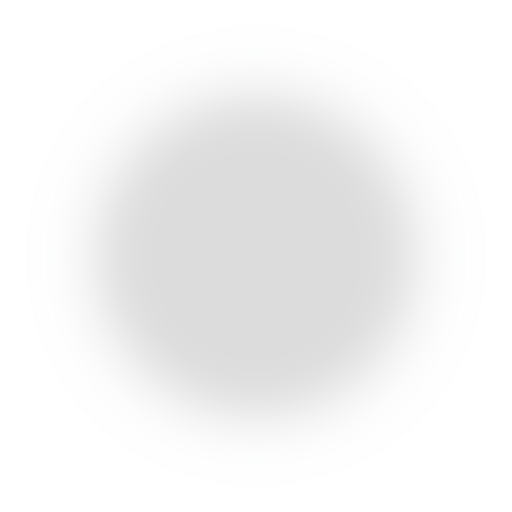
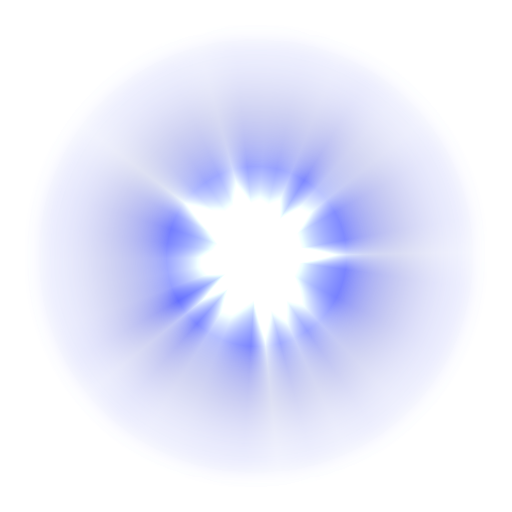
start to points tree, special list rendering

Changed region(s): [[0.1875, 0.2188, 0.8125, 0.8125]]

diff --git a/scripts/ui.js b/scripts/ui.js
@@ -434,16 +434,116 @@ BSWG.control_UnlockTree = {
         this.updateButtons();
 
         this.cats = [ 'attack', 'mele', 'defend', 'speed' ];
+
+        this.scrollY = 0.0;
     },
 
     updateButtons: function () {
 
         this.buttons = [];
+
+        if (!this.hudHM) {
+            return;
+        }
+
+        var self = this;
         this.maxLevelCat = {};
         this.maxLevel = 0;
 
         for (var i=0; i<this.cats.length; i++) {
+            var cat = this.cats[i];
+            var levels = BSWG.specialsUnlockInfo[cat].levels;
+            for (var level in levels) {
+                this.maxLevelCat[cat] = Math.max(this.maxLevelCat[cat] || 0, parseInt(level));
+                this.maxLevel = Math.max(this.maxLevel, parseInt(level));
+            }
+        }
 
+        var hx = function(v) {
+            var t = (v - self.hudHM.l(0)) / (self.hudHM.r(0) - self.hudHM.l(0));
+            return self.w*t + self.p.x;
+        };
+        var hy = function(v) {
+            var t = (v - self.hudHM.t(0)) / (self.hudHM.b(0) - self.hudHM.t(0));
+            return self.h*t + self.p.y;
+        };
+
+        var w = (this.w - (hx(20) - this.p.x)) / this.bRows;
+        self.scrollH = w;
+        var y = hy(10) - (this.maxLevel - this.bRows) * w - w;
+        for (var level=this.maxLevel; level >= 0; level--) {
+            for (var i=0; i<this.cats.length; i++) {
+                var cat = this.cats[i];
+                if (this.maxLevelCat[cat] < level) {
+                    continue;
+                }
+                var levels = BSWG.specialsUnlockInfo[cat].levels;
+                var x = w*i;
+
+                var B = {
+                    x: x + 5 + 9,
+                    y: y - this.p.y + 5,
+                    w: w - 10,
+                    h: w - 10,
+                    cat: cat,
+                    level: level,
+                    has: BSWG.game.xpInfo[cat] >= level,
+                    canHave: (BSWG.game.xpInfo[cat]+Math.min(1, BSWG.game.xpInfo.pointsLeft())) >= level
+                };
+
+                B.render = function(me, key, has) {
+                    return function(ctx) {
+                        var x = me.x + self.p.x;
+                        var y = me.y + self.p.y - self.scrollY;
+                        if (key) {
+                            ctx.globalAlpha = me.canHave ? 1.0 : 0.25;
+                            if (me.canHave && !me.has) {
+                                ctx.globalAlpha = Math.sin(BSWG.render.time*5)*0.35+0.65;
+                            }
+                            ctx.save();
+                            ctx.translate(x+me.w/2, y+me.h/2);
+                            ctx.rotate(BSWG.render.time)
+                            ctx.translate(-me.w/2, -me.h/2)
+                            ctx.drawImage(BSWG.render.images['unlock-hover'], 0, 0, me.w, me.h);
+                            ctx.restore();
+                            ctx.globalAlpha *= 0.5;
+                            ctx.save();
+                            ctx.translate(x+me.w/2, y+me.h/2);
+                            ctx.rotate(-BSWG.render.time)
+                            ctx.translate(-me.w/2, -me.h/2)
+                            ctx.drawImage(BSWG.render.images['unlock-hover'], 0, 0, me.w, me.h);
+                            ctx.restore();
+                            ctx.globalAlpha = 1.0;
+
+                            BSWG.renderSpecialIcon(ctx, key, x + me.w/2, y + me.h/2, me.w, 0.0, BSWG.game.ccblock, true);
+                        }
+                        else
+                        {
+                            ctx.globalAlpha = me.canHave ? 1.0 : 0.25;
+                            if (me.canHave && !me.has) {
+                                ctx.globalAlpha = Math.sin(BSWG.render.time*5)*0.35+0.65;
+                            }
+                            ctx.save();
+                            ctx.translate(x+me.w/2, y+me.h/2);
+                            ctx.rotate(BSWG.render.time*3)
+                            ctx.translate(-me.w/4, -me.h/4)
+                            ctx.drawImage(BSWG.render.images['unlock-hover'], 0, 0, me.w*.5, me.h*.5);
+                            ctx.restore();
+                            ctx.globalAlpha *= 0.5;
+                            ctx.save();
+                            ctx.translate(x+me.w/2, y+me.h/2);
+                            ctx.rotate(-BSWG.render.time)
+                            ctx.translate(-me.w/4, -me.h/4)
+                            ctx.drawImage(BSWG.render.images['unlock-hover'], 0, 0, me.w*.5, me.h*.5);
+                            ctx.restore();
+                            ctx.globalAlpha = 1.0;
+                        }
+                    };
+                }(B, levels[level]);
+
+                this.buttons.push(B);
+            }
+            y += w;
         }
 
         /*ctx.drawImage(BSWG.render.images['unlock-icon'], this.p.x, this.p.y, this.w, this.h);
@@ -495,6 +595,7 @@ BSWG.control_UnlockTree = {
 
                 BSWG.render.heightMapToNormalMap(H.H, ctx, w, h);
 
+                self.hudHM = H;
                 self.hudBtn = H.hudBtn;
 
             });
@@ -528,6 +629,38 @@ BSWG.control_UnlockTree = {
         if (this.p.y < -this.h) {
             return;
         }
+
+        ctx.save();
+        ctx.rect(this.p.x, this.p.y, this.w, this.h);
+        ctx.clip();
+
+        for (var i=0; i<this.cats.length; i++) {
+            var cat = this.cats[i];
+            var lb = null;
+            for (var j=0; j<this.buttons.length; j++) {
+                if (this.buttons[j].cat === cat) {
+                    var B = this.buttons[j];
+                    if (lb) {
+                        var x1 = lb.x + lb.w*0.5 + this.p.x, y1 = lb.y + lb.h*0.5 + this.p.y;
+                        var x2 = B.x + B.w*0.5 + this.p.x, y2 = B.y + B.h*0.5 + this.p.y;
+                        ctx.beginPath();
+                        ctx.lineWidth = 3.0;
+                        ctx.strokeStyle = lb.has ? '#fff' : (lb.canHave ? '#aaa' : '#666');
+                        ctx.moveTo(x1, y1);
+                        ctx.lineTo(x2, y2);
+                        ctx.closePath();
+                        ctx.stroke();
+                    }
+                    lb = B;
+                }
+            }
+        }
+
+        for (var i=0; i<this.buttons.length; i++) {
+            this.buttons[i].render(ctx);
+        }
+
+        ctx.restore();
 
     },
 

diff --git a/scripts/specials/specials_base.js b/scripts/specials/specials_base.js
@@ -467,7 +467,7 @@ BSWG.startSpecial = function(key, who, btn) {
     );
 }
 
-BSWG.renderSpecialIcon = function(ctx, key, x, y, scale, angle, who) {
+BSWG.renderSpecialIcon = function(ctx, key, x, y, scale, angle, who, nobg) {
 
     var desc = BSWG.specialsInfo[key];
     var poly = desc.polys;
@@ -480,7 +480,7 @@ BSWG.renderSpecialIcon = function(ctx, key, x, y, scale, angle, who) {
 
     var T = 0.0;
 
-    if (who) {
+    if (who && !nobg) {
         if (!who.hasSpecial(key)) {
             saturation = 0.0;
         }
@@ -490,6 +490,14 @@ BSWG.renderSpecialIcon = function(ctx, key, x, y, scale, angle, who) {
         T = who.specialReady(key);
         if (T < 1.0) {
             saturation *= 0.5;
+        }
+    }
+    else if (who && nobg) {
+        if (!who.hasSpecial(key)) {
+            saturation = 0.5;
+        }
+        if (!who.specialEquipped(key)) {
+            lightness -= 0.15;
         }
     }
 
@@ -531,7 +539,7 @@ BSWG.renderSpecialIcon = function(ctx, key, x, y, scale, angle, who) {
     var c3 = 'rgb(' + r3 + ',' + g3 + ',' + b3 + ')';
     var c4 = 'rgb(' + r4 + ',' + g4 + ',' + b4 + ')';
 
-    if (T) {
+    if (T && !nobg) {
         ctx.save();
         ctx.translate(x, y);
         ctx.scale(iscale, iscale);
